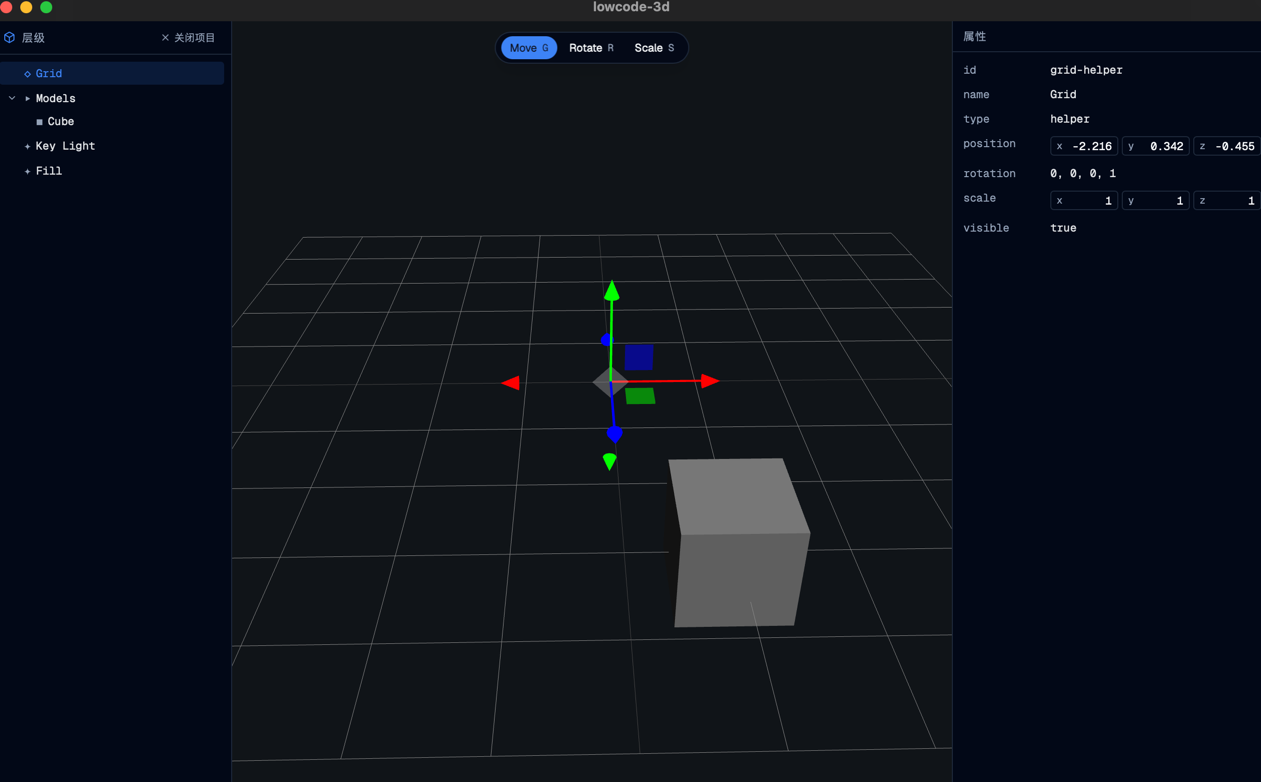
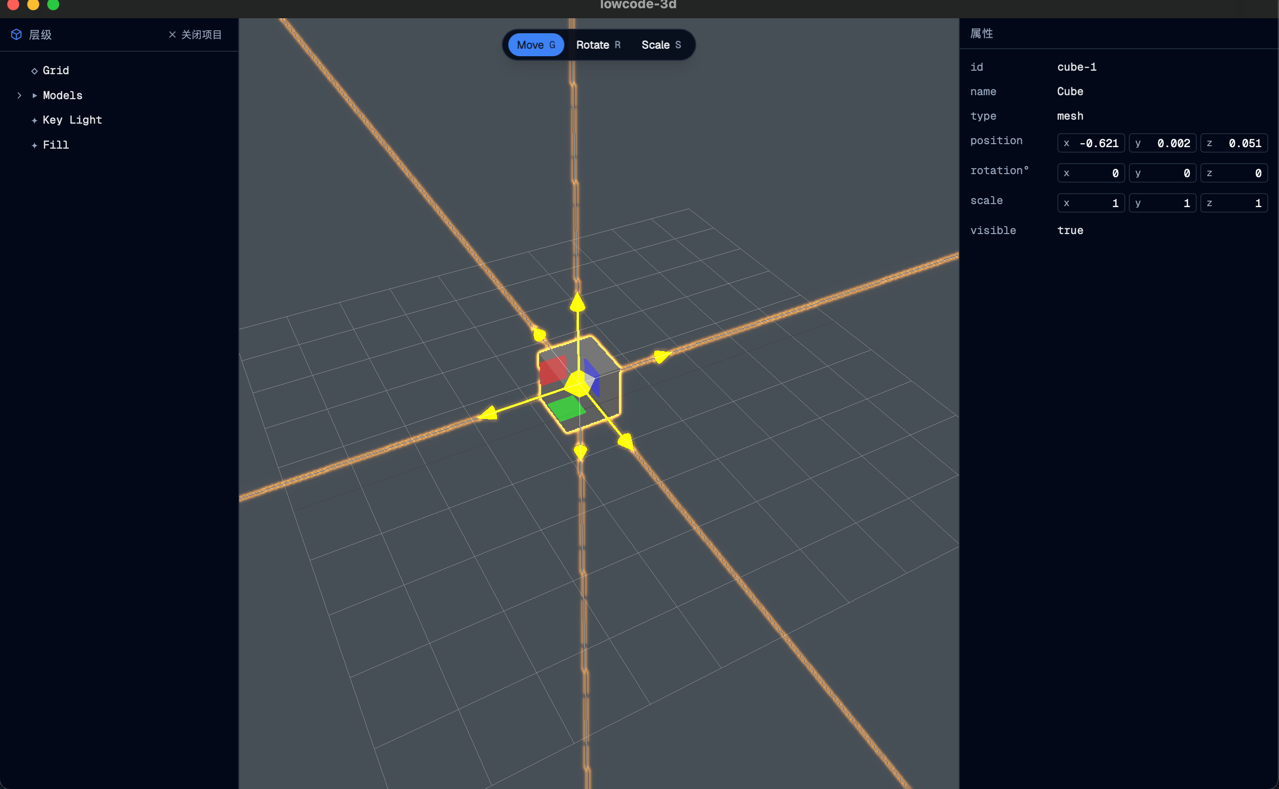
fix(ui): tone down selection outline + hide during gizmo drag
Feedback on the first cut: the saturated orange (#f5a623) + edgeStrength 4 +
edgeGlow 0.3 produced a halo that competed with both the gizmo and the dark
slate backdrop, and during a gizmo drag the outline duplicated what the gizmo
handles already convey.

Changes:
- visibleEdgeColor → primary accent blue (#3b82f6, matches the selected
  hierarchy row + the Move-mode toolbar pill, so selection now reads as one
  visual language across the three panels).
- edgeStrength 4 → 2, edgeGlow 0.3 → 0, edgeThickness unchanged — a thin
  no-glow line is enough to say "this one" without pulling focus.
- dragging-changed handler clears outlinePass.selectedObjects on drag start
  and restores from current selection on release. The gizmo is on screen
  exactly when the outline would be redundant.

diff --git a/src/ui/viewport/ThreeViewport.tsx b/src/ui/viewport/ThreeViewport.tsx
@@ -65,6 +65,10 @@ export function ThreeViewport() {
     // highlighting on top of the regular render. Render order: RenderPass
     // (scene) → OutlinePass (edge detection on selectedObjects) → OutputPass
     // (sRGB convert + tone-map so colours match the direct-render path).
+    // Edge tuning: 2 / 0 / 1 = a thin, no-glow line so it reads as "marked"
+    // without competing with the gizmo for attention. Colour matches the
+    // app's primary accent (--primary, hsl 217 91% 60%) so the outline ties
+    // into the same visual language as the selected hierarchy row.
     const composer = new EffectComposer(renderer);
     composer.addPass(new RenderPass(adapter.scene, adapter.camera));
     const outlinePass = new OutlinePass(
@@ -72,11 +76,11 @@ export function ThreeViewport() {
       adapter.scene,
       adapter.camera,
     );
-    outlinePass.edgeStrength = 4;
-    outlinePass.edgeGlow = 0.3;
+    outlinePass.edgeStrength = 2;
+    outlinePass.edgeGlow = 0;
     outlinePass.edgeThickness = 1;
-    outlinePass.visibleEdgeColor.set("#f5a623");
-    outlinePass.hiddenEdgeColor.set("#3a2a10");
+    outlinePass.visibleEdgeColor.set("#3b82f6");
+    outlinePass.hiddenEdgeColor.set("#1e3a5f");
     composer.addPass(outlinePass);
     composer.addPass(new OutputPass());
 
@@ -94,9 +98,19 @@ export function ThreeViewport() {
     let dragStart: Transform | null = null;
 
     gizmo.addEventListener("dragging-changed", (event) => {
+      const dragging = event.value as unknown as boolean;
       // Disable OrbitControls during a gizmo drag so the camera doesn't move
       // with the cursor.
-      orbit.enabled = !(event.value as unknown as boolean);
+      orbit.enabled = !dragging;
+      // Hide the selection outline while dragging — the gizmo handles already
+      // mark what's being manipulated, and an extra edge underneath competes
+      // with the gizmo for attention. Restore on release from the current
+      // selection state so we don't fight a concurrent selection change.
+      if (dragging) {
+        outlinePass.selectedObjects = [];
+      } else {
+        syncSelection(useUIStore.getState().selectedNodeId);
+      }
     });
     gizmo.addEventListener("mouseDown", () => {
       const obj = gizmo.object;
